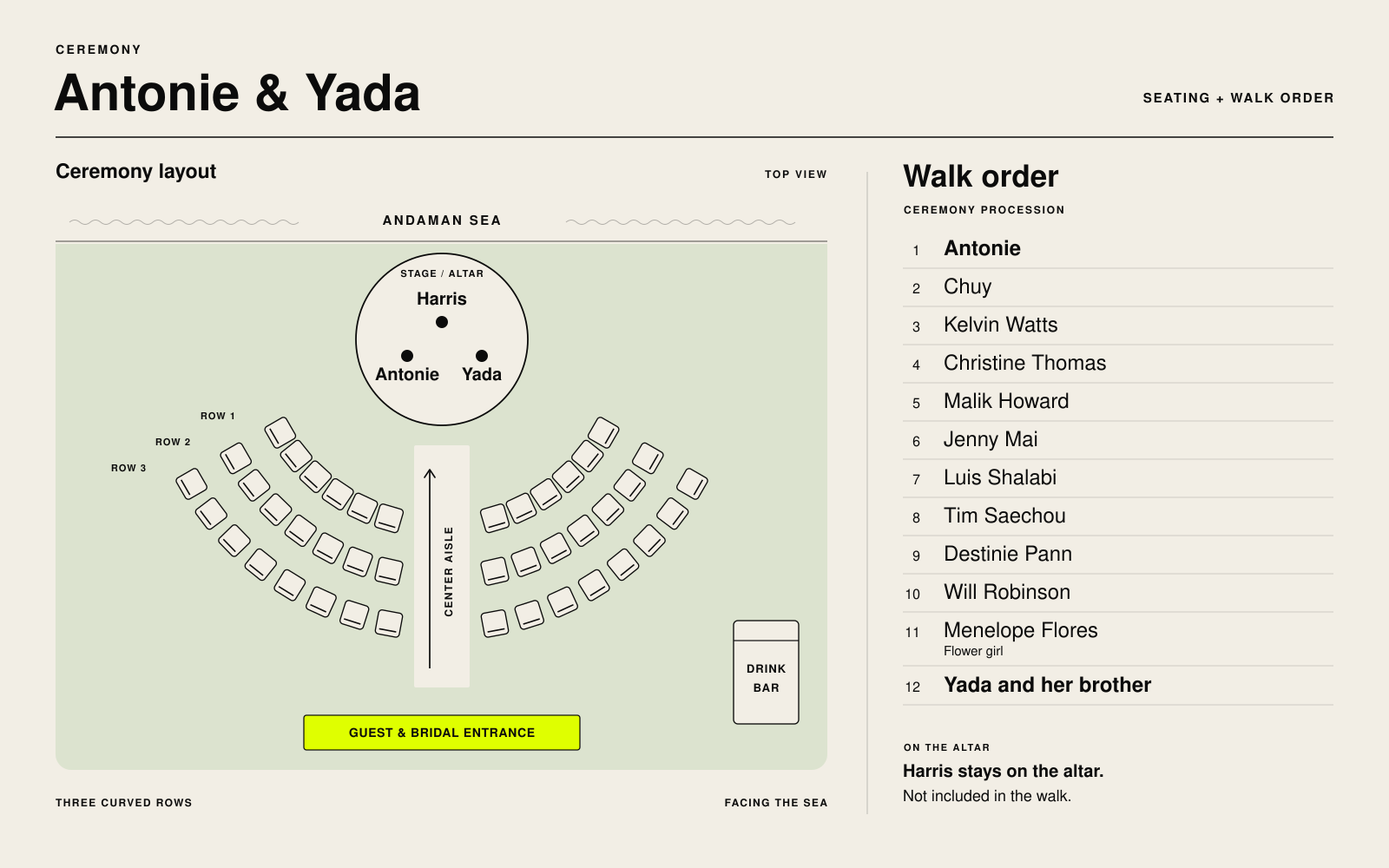
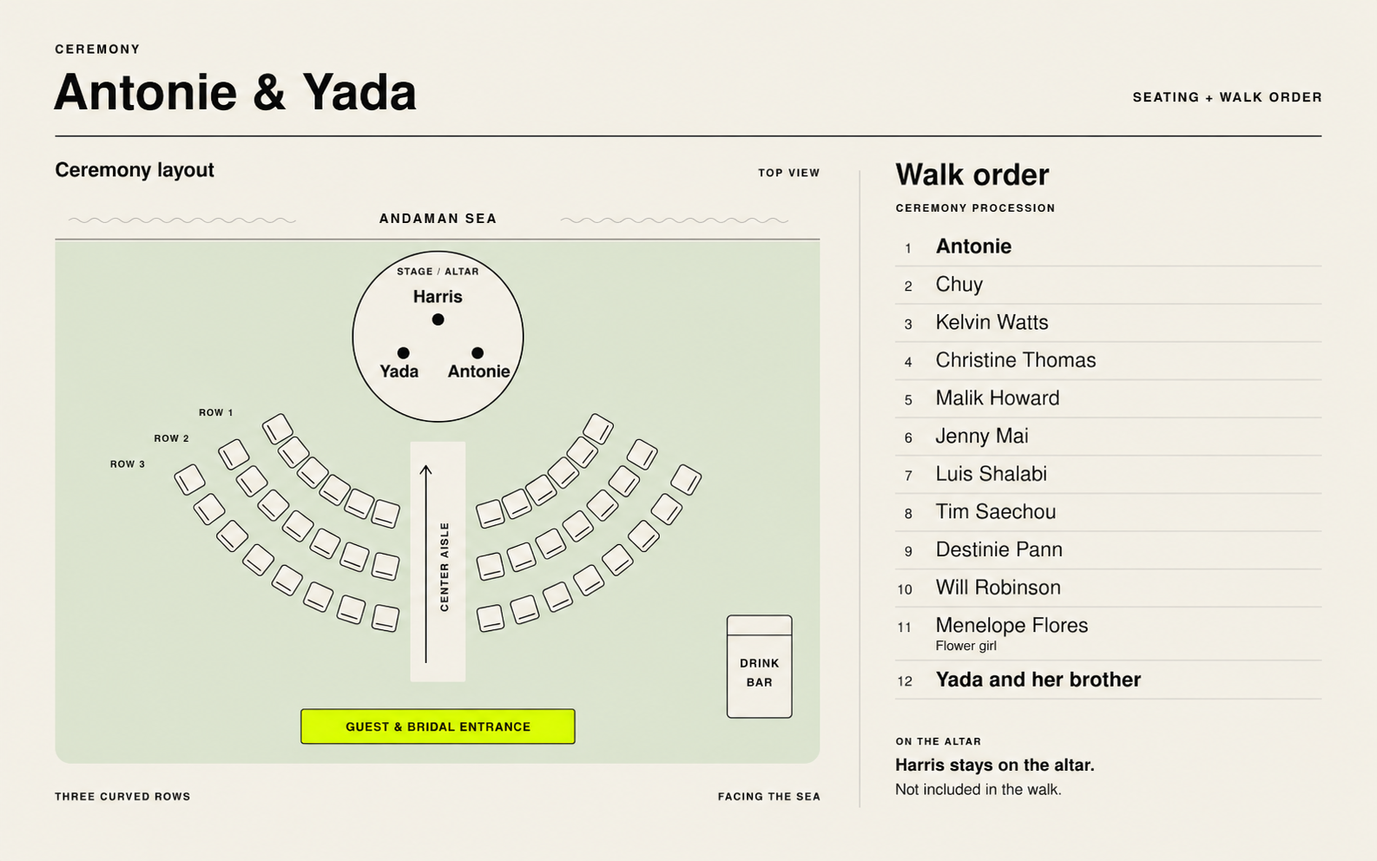
Update rehearsal instructions, altar map, and Will's duties

diff --git a/index.html b/index.html
@@ -191,7 +191,7 @@ body[data-va-groomsmen="true"] .cursor-glow{display:none}body[data-va-groomsmen=
     <div class="gm-section-heading"><h2 id="gm-plan-title">TWO DAYS.<br/>BE THERE.</h2><p>The key times, the places, and what we need from you. Keep this handy on Thursday and Friday.</p></div>
     <div class="gm-days">
       <article class="gm-day"><div class="gm-day-heading"><span class="gm-day-number" aria-hidden="true">19</span><div><h3>Thursday</h3><p class="gm-label">November 19, 2026</p></div></div>
-        <ol class="gm-timeline"><li><div class="gm-time"><time datetime="2026-11-19T16:30:00+07:00">4:30pm</time></div><div><h4>Rehearsal</h4><p>Cape Sienna. Come comfortable for the walkthrough.</p><a class="gm-link" href="https://www.google.com/maps/search/?api=1&amp;query=Cape+Sienna+Phuket+18%2F40+Moo+6+Nakalay+Road+Kamala" target="_blank" rel="noopener noreferrer">Cape Sienna map<span aria-hidden="true">↗</span></a></div></li><li><div class="gm-time"><time datetime="2026-11-19T18:00:00+07:00">6:00pm</time></div><div><h4>Welcome party</h4><p>Blue Sea Restaurant by Namaka Resort Kamala, across the street from Cape Sienna.</p><p>Rehearsal dinner dress code: <strong>ELEVATED CASUAL</strong>.</p><a class="gm-link" href="https://www.google.com/maps/search/?api=1&amp;query=Blue+Sea+Restaurant+by+Namaka+Resort+Kamala+Phuket" target="_blank" rel="noopener noreferrer">Blue Sea map<span aria-hidden="true">↗</span></a></div></li></ol>
+        <ol class="gm-timeline"><li><div class="gm-time"><time datetime="2026-11-19T16:30:00+07:00">4:30pm</time></div><div><h4>Rehearsal</h4><p>Cape Sienna. Arrive dressed and ready for the rehearsal and welcome party.</p><a class="gm-link" href="https://www.google.com/maps/search/?api=1&amp;query=Cape+Sienna+Phuket+18%2F40+Moo+6+Nakalay+Road+Kamala" target="_blank" rel="noopener noreferrer">Cape Sienna map<span aria-hidden="true">↗</span></a></div></li><li><div class="gm-time"><time datetime="2026-11-19T18:00:00+07:00">6:00pm</time></div><div><h4>Welcome party</h4><p>Blue Sea Restaurant by Namaka Resort Kamala, across the street from Cape Sienna.</p><p>Rehearsal dinner dress code: <strong>ELEVATED CASUAL</strong>.</p><a class="gm-link" href="https://www.google.com/maps/search/?api=1&amp;query=Blue+Sea+Restaurant+by+Namaka+Resort+Kamala+Phuket" target="_blank" rel="noopener noreferrer">Blue Sea map<span aria-hidden="true">↗</span></a></div></li></ol>
       </article>
       <article class="gm-day"><div class="gm-day-heading"><span class="gm-day-number" aria-hidden="true">20</span><div><h3>Friday</h3><p class="gm-label">November 20, 2026</p></div></div>
         <ol class="gm-timeline"><li><div class="gm-time">Before<small>the venue</small></div><div><h4>Get ready at the Airbnb</h4><p>Photos at the Airbnb and at the venue. Malik keeps the seven together until the photographer is done.</p><p>Tim owns shuttles, rides and pickup times. He gets everyone to Cape Sienna by 4:00pm.</p></div></li><li class="gm-arrival"><div class="gm-time"><time datetime="2026-11-20T16:00:00+07:00">4:00pm</time><small>Be there by</small></div><div><h4>Everyone at Cape Sienna</h4><p>Wait in the assigned room until called.</p></div></li><li><div class="gm-time"><time datetime="2026-11-20T16:30:00+07:00">4:30pm</time></div><div><h4>Guests on the rooftop</h4><p>Vanilla Sky Bar. Chuy helps guests find seats before 4:30pm.</p></div></li><li><div class="gm-time"><time datetime="2026-11-20T17:00:00+07:00">5:00pm</time><small>Sharp</small></div><div><h4>Ceremony starts</h4><p>Cape Sienna Phuket. The wedding celebration runs until 10:00pm.</p></div></li><li><div class="gm-time"><time datetime="2026-11-20T22:00:00+07:00">10:00pm</time><small>Until midnight</small></div><div><h4>After party at Catch</h4><p>Catch Beach Club, Choeng Thale. Kelvin gathers the crew and checks for phones, gifts and personal belongings before everyone heads over.</p><a class="gm-link" href="https://www.google.com/maps/search/?api=1&amp;query=Catch+Beach+Club+Choeng+Thale+Phuket" target="_blank" rel="noopener noreferrer">Catch map<span aria-hidden="true">↗</span></a></div></li></ol>
@@ -201,7 +201,7 @@ body[data-va-groomsmen="true"] .cursor-glow{display:none}body[data-va-groomsmen=
   </section>
   <section class="gm-section" id="gm-crew" aria-labelledby="gm-crew-title"><div class="gm-section-kicker"><span>02 / The seven</span><span>Know what you own</span></div><div class="gm-section-heading"><h2 id="gm-crew-title">YOUR PEOPLE.<br/>YOUR ROLES.</h2><p>Read your part. Know who covers what. Help each other keep the day moving.</p></div><nav class="gm-role-jump" aria-label="Jump to a groomsman"><a href="#gm-will">Will</a><a href="#gm-tim">Tim</a><a href="#gm-kelvin">Kelvin</a><a href="#gm-malik">Malik</a><a href="#gm-chuy">Chuy</a><a href="#gm-luis">Luis</a><a href="#gm-harris">Harris</a></nav><div class="gm-crew"><article class="gm-person " id="gm-will">
     <div class="gm-portrait "><img src="assets/will.webp" alt="Will Robinson" width="800" height="1000" loading="lazy" decoding="async" style="object-position:50% 35%" /></div>
-    <div class="gm-person-copy"><p class="gm-label">01 / Co-best man</p><h3>Will Robinson</h3><p class="gm-focus">Rings. Speech. Antonie's clock.</p><ul><li>Give a speech and hold the rings.</li><li>Keep Antonie on time.</li><li>Cover the floor while Tim speaks.</li></ul></div>
+    <div class="gm-person-copy"><p class="gm-label">01 / Co-best man</p><h3>Will Robinson</h3><p class="gm-focus">Rings. Speech. Antonie's clock.</p><ul><li>Give a speech and hold the rings.</li><li>Keep Antonie on time.</li></ul></div>
   </article><article class="gm-person " id="gm-tim">
     <div class="gm-portrait "><img src="assets/tim.webp" alt="Tim Saechou" width="800" height="1000" loading="lazy" decoding="async" style="object-position:50% 32%" /></div>
     <div class="gm-person-copy"><p class="gm-label">02 / Co-best man</p><h3>Tim Saechou</h3><p class="gm-focus">Own the shuttles and rides.</p><ul><li>Own the shuttles, rides and pickup times.</li><li>Get everyone to Cape Sienna by 4:00pm.</li><li>Give a speech.</li></ul></div>
@@ -227,7 +227,7 @@ body[data-va-groomsmen="true"] .cursor-glow{display:none}body[data-va-groomsmen=
     <article class="gm-blue"><div><p class="gm-label">Thursday / 6:00pm / ELEVATED CASUAL</p><h3>Blue Sea Restaurant</h3><p>By Namaka Resort Kamala.</p></div><div><p>Across the street from Cape Sienna. This is the spot for the welcome party.</p><a class="gm-link" href="https://www.google.com/maps/search/?api=1&amp;query=Blue+Sea+Restaurant+by+Namaka+Resort+Kamala+Phuket" target="_blank" rel="noopener noreferrer">Open Blue Sea map<span aria-hidden="true">↗</span></a></div></article>
   </div></section>
   <section class="gm-section" id="gm-stay" aria-labelledby="gm-stay-title"><div class="gm-stay"><div class="gm-stay-copy"><p class="gm-label">04 / Where we stay</p><h2 id="gm-stay-title" class="gm-stay-title">HOME BASE.</h2><p class="gm-stay-dates"><strong>November 16 to 24, 2026.</strong></p><p class="gm-address">8 Rim Tarn Village<br/>Choeng Thale, Phuket 83110<br/>Thailand</p><p>We're staying here all week.</p><a class="gm-link" href="https://www.google.com/maps/search/?api=1&amp;query=8+Rim+Tarn+Village+Choeng+Thale+Phuket+83110" target="_blank" rel="noopener noreferrer">Open Airbnb map<span aria-hidden="true">↗</span></a></div><div><article class="gm-travel-card"><p class="gm-label">Getting around</p><h3>Shuttles + rides.</h3><p>Tim owns the shuttles and rides. He gets everyone to Cape Sienna by 4:00pm. Keep an eye out for his pickup times.</p></article></div></div></section>
-  <section class="gm-section" id="gm-walk" aria-labelledby="gm-walk-title"><div class="gm-section-kicker"><span>05 / The procession</span><span>Know your cue</span></div><div class="gm-section-heading"><h2 id="gm-walk-title">THE WALK<br/>ORDER.</h2><p>This is the full procession, including the people walking who are not groomsmen.</p></div><figure class="gm-ceremony-map"><a href="assets/ceremony-map.png" target="_blank" rel="noopener noreferrer" aria-label="Open the full-size ceremony map"><img src="assets/ceremony-map.png" alt="Ceremony map: altar facing the Andaman Sea, three curved rows of seats, a center aisle, guest and bridal entrance, drink bar, and the walk order. Harris stays on the altar." width="1600" height="1000" loading="lazy" decoding="async"/></a><figcaption>Ceremony layout + walk order. Tap the map to open it full size.</figcaption></figure><div class="gm-procession"><aside class="gm-altar-note"><p class="gm-label">Already at the altar</p><h3>Harris stays put.</h3><p>He officiates with Antonie and Yada at the altar. He is not in the walk.</p></aside><div><ol class="gm-walk"><li><span class="gm-walk-number" aria-hidden="true">01</span><span class="gm-walk-name">Antonie</span></li><li><span class="gm-walk-number" aria-hidden="true">02</span><span class="gm-walk-name">Chuy</span></li><li><span class="gm-walk-number" aria-hidden="true">03</span><span class="gm-walk-name">Kelvin Watts</span></li><li><span class="gm-walk-number" aria-hidden="true">04</span><span class="gm-walk-name">Christine Thomas</span></li><li><span class="gm-walk-number" aria-hidden="true">05</span><span class="gm-walk-name">Malik Howard</span></li><li><span class="gm-walk-number" aria-hidden="true">06</span><span class="gm-walk-name">Jenny Mai</span></li><li><span class="gm-walk-number" aria-hidden="true">07</span><span class="gm-walk-name">Luis Shalabi</span></li><li><span class="gm-walk-number" aria-hidden="true">08</span><span class="gm-walk-name">Tim Saechou</span></li><li><span class="gm-walk-number" aria-hidden="true">09</span><span class="gm-walk-name">Destinie Pann</span></li><li><span class="gm-walk-number" aria-hidden="true">10</span><span class="gm-walk-name">Will Robinson</span></li><li><span class="gm-walk-number" aria-hidden="true">11</span><span class="gm-walk-name">Menelope Flores<small>Flower girl</small></span></li><li><span class="gm-walk-number" aria-hidden="true">12</span><span class="gm-walk-name">Yada and her brother</span></li></ol><p class="gm-procession-notes">Christine Thomas, Jenny Mai, Destinie Pann, Menelope Flores and Yada's brother are in the walk. They are not groomsmen.</p></div></div></section>
+  <section class="gm-section" id="gm-walk" aria-labelledby="gm-walk-title"><div class="gm-section-kicker"><span>05 / The procession</span><span>Know your cue</span></div><div class="gm-section-heading"><h2 id="gm-walk-title">THE WALK<br/>ORDER.</h2><p>This is the full procession, including the people walking who are not groomsmen.</p></div><figure class="gm-ceremony-map"><a href="assets/ceremony-map.png" target="_blank" rel="noopener noreferrer" aria-label="Open the full-size ceremony map"><img src="assets/ceremony-map.png" alt="Ceremony map: altar facing the Andaman Sea with Yada on the left, Antonie on the right and Harris at the top. Three curved rows of seats, a center aisle, guest and bridal entrance, drink bar, and the walk order." width="1586" height="992" loading="lazy" decoding="async"/></a><figcaption>Ceremony layout + walk order. Tap the map to open it full size.</figcaption></figure><div class="gm-procession"><aside class="gm-altar-note"><p class="gm-label">Already at the altar</p><h3>Harris stays put.</h3><p>He officiates with Antonie and Yada at the altar. He is not in the walk.</p></aside><div><ol class="gm-walk"><li><span class="gm-walk-number" aria-hidden="true">01</span><span class="gm-walk-name">Antonie</span></li><li><span class="gm-walk-number" aria-hidden="true">02</span><span class="gm-walk-name">Chuy</span></li><li><span class="gm-walk-number" aria-hidden="true">03</span><span class="gm-walk-name">Kelvin Watts</span></li><li><span class="gm-walk-number" aria-hidden="true">04</span><span class="gm-walk-name">Christine Thomas</span></li><li><span class="gm-walk-number" aria-hidden="true">05</span><span class="gm-walk-name">Malik Howard</span></li><li><span class="gm-walk-number" aria-hidden="true">06</span><span class="gm-walk-name">Jenny Mai</span></li><li><span class="gm-walk-number" aria-hidden="true">07</span><span class="gm-walk-name">Luis Shalabi</span></li><li><span class="gm-walk-number" aria-hidden="true">08</span><span class="gm-walk-name">Tim Saechou</span></li><li><span class="gm-walk-number" aria-hidden="true">09</span><span class="gm-walk-name">Destinie Pann</span></li><li><span class="gm-walk-number" aria-hidden="true">10</span><span class="gm-walk-name">Will Robinson</span></li><li><span class="gm-walk-number" aria-hidden="true">11</span><span class="gm-walk-name">Menelope Flores<small>Flower girl</small></span></li><li><span class="gm-walk-number" aria-hidden="true">12</span><span class="gm-walk-name">Yada and her brother</span></li></ol><p class="gm-procession-notes">Christine Thomas, Jenny Mai, Destinie Pann, Menelope Flores and Yada's brother are in the walk. They are not groomsmen.</p></div></div></section>
   <section class="gm-final"><div><p class="gm-label">For the weekend</p><h2>Bookmark it.<br/>Show up for them.</h2></div><a class="gm-button" href="https://www.zola.com/wedding/antonieandmoniqueyada" target="_blank" rel="noopener noreferrer">Open the guest site<span aria-hidden="true">↗</span></a></section>
 </main></div><footer class="gm-footer"><a href="https://vessel-archive.com/" aria-label="Vessel Archive home">VESSEL ARCHIVE</a><p class="gm-label">Antonie + Yada / November 20, 2026 / Phuket, Thailand</p><a href="#gm-top">Back to top ↑</a></footer><script>
 (() => {

diff --git a/Workshop/VesselArchiveSite.tsx b/Workshop/VesselArchiveSite.tsx
@@ -474,7 +474,7 @@ const GROOMSMEN_LINKS = {
   airbnb: "https://www.google.com/maps/search/?api=1&query=8+Rim+Tarn+Village+Choeng+Thale+Phuket+83110",
 };
 const GROOMSMEN_CREW = [
-  { id: "will", name: "Will Robinson", initials: "WR", role: "Co-best man", focus: "Rings. Speech. Antonie's clock.", photo: GROOMSMEN_ASSETS.will, position: "50% 35%", duties: ["Give a speech and hold the rings.", "Keep Antonie on time.", "Cover the floor while Tim speaks."] },
+  { id: "will", name: "Will Robinson", initials: "WR", role: "Co-best man", focus: "Rings. Speech. Antonie's clock.", photo: GROOMSMEN_ASSETS.will, position: "50% 35%", duties: ["Give a speech and hold the rings.", "Keep Antonie on time."] },
   { id: "tim", name: "Tim Saechou", initials: "TS", role: "Co-best man", focus: "Own the shuttles and rides.", photo: GROOMSMEN_ASSETS.tim, position: "50% 32%", duties: ["Own the shuttles, rides and pickup times.", "Get everyone to Cape Sienna by 4:00pm.", "Give a speech."] },
   { id: "kelvin", name: "Kelvin Watts", initials: "KW", role: "After party + belongings", focus: "Keep the crew moving.", photo: GROOMSMEN_ASSETS.kelvin, position: "50% 35%", duties: ["At 10:00pm, gather the crew and move everyone to Catch.", "Collect phones, gifts and personal belongings. Check that nothing is left behind."] },
   { id: "malik", name: "Malik Howard", initials: "MH", role: "Photos", focus: "Keep the whole crew in frame.", photo: GROOMSMEN_ASSETS.malik, position: "50% 35%", duties: ["Own photos at the Airbnb and at the venue.", "Keep the seven together until the photographer is done.", "Tell funny jokes."] },
@@ -545,7 +545,7 @@ const GROOMSMEN_PAGE = `<style>${GROOMSMEN_CSS}</style>
     <div class="gm-section-heading"><h2 id="gm-plan-title">TWO DAYS.<br/>BE THERE.</h2><p>The key times, the places, and what we need from you. Keep this handy on Thursday and Friday.</p></div>
     <div class="gm-days">
       <article class="gm-day"><div class="gm-day-heading"><span class="gm-day-number" aria-hidden="true">19</span><div><h3>Thursday</h3><p class="gm-label">November 19, 2026</p></div></div>
-        <ol class="gm-timeline"><li><div class="gm-time"><time datetime="2026-11-19T16:30:00+07:00">4:30pm</time></div><div><h4>Rehearsal</h4><p>Cape Sienna. Come comfortable for the walkthrough.</p>${gmLink(GROOMSMEN_LINKS.cape,"Cape Sienna map")}</div></li><li><div class="gm-time"><time datetime="2026-11-19T18:00:00+07:00">6:00pm</time></div><div><h4>Welcome party</h4><p>Blue Sea Restaurant by Namaka Resort Kamala, across the street from Cape Sienna.</p><p>Rehearsal dinner dress code: <strong>ELEVATED CASUAL</strong>.</p>${gmLink(GROOMSMEN_LINKS.blue,"Blue Sea map")}</div></li></ol>
+        <ol class="gm-timeline"><li><div class="gm-time"><time datetime="2026-11-19T16:30:00+07:00">4:30pm</time></div><div><h4>Rehearsal</h4><p>Cape Sienna. Arrive dressed and ready for the rehearsal and welcome party.</p>${gmLink(GROOMSMEN_LINKS.cape,"Cape Sienna map")}</div></li><li><div class="gm-time"><time datetime="2026-11-19T18:00:00+07:00">6:00pm</time></div><div><h4>Welcome party</h4><p>Blue Sea Restaurant by Namaka Resort Kamala, across the street from Cape Sienna.</p><p>Rehearsal dinner dress code: <strong>ELEVATED CASUAL</strong>.</p>${gmLink(GROOMSMEN_LINKS.blue,"Blue Sea map")}</div></li></ol>
       </article>
       <article class="gm-day"><div class="gm-day-heading"><span class="gm-day-number" aria-hidden="true">20</span><div><h3>Friday</h3><p class="gm-label">November 20, 2026</p></div></div>
         <ol class="gm-timeline"><li><div class="gm-time">Before<small>the venue</small></div><div><h4>Get ready at the Airbnb</h4><p>Photos at the Airbnb and at the venue. Malik keeps the seven together until the photographer is done.</p><p>Tim owns shuttles, rides and pickup times. He gets everyone to Cape Sienna by 4:00pm.</p></div></li><li class="gm-arrival"><div class="gm-time"><time datetime="2026-11-20T16:00:00+07:00">4:00pm</time><small>Be there by</small></div><div><h4>Everyone at Cape Sienna</h4><p>Wait in the assigned room until called.</p></div></li><li><div class="gm-time"><time datetime="2026-11-20T16:30:00+07:00">4:30pm</time></div><div><h4>Guests on the rooftop</h4><p>Vanilla Sky Bar. Chuy helps guests find seats before 4:30pm.</p></div></li><li><div class="gm-time"><time datetime="2026-11-20T17:00:00+07:00">5:00pm</time><small>Sharp</small></div><div><h4>Ceremony starts</h4><p>Cape Sienna Phuket. The wedding celebration runs until 10:00pm.</p></div></li><li><div class="gm-time"><time datetime="2026-11-20T22:00:00+07:00">10:00pm</time><small>Until midnight</small></div><div><h4>After party at Catch</h4><p>Catch Beach Club, Choeng Thale. Kelvin gathers the crew and checks for phones, gifts and personal belongings before everyone heads over.</p>${gmLink(GROOMSMEN_LINKS.catch,"Catch map")}</div></li></ol>
@@ -560,7 +560,7 @@ const GROOMSMEN_PAGE = `<style>${GROOMSMEN_CSS}</style>
     <article class="gm-blue"><div><p class="gm-label">Thursday / 6:00pm / ELEVATED CASUAL</p><h3>Blue Sea Restaurant</h3><p>By Namaka Resort Kamala.</p></div><div><p>Across the street from Cape Sienna. This is the spot for the welcome party.</p>${gmLink(GROOMSMEN_LINKS.blue,"Open Blue Sea map")}</div></article>
   </div></section>
   <section class="gm-section" id="gm-stay" aria-labelledby="gm-stay-title"><div class="gm-stay"><div class="gm-stay-copy"><p class="gm-label">04 / Where we stay</p><h2 id="gm-stay-title" class="gm-stay-title">HOME BASE.</h2><p class="gm-stay-dates"><strong>November 16 to 24, 2026.</strong></p><p class="gm-address">8 Rim Tarn Village<br/>Choeng Thale, Phuket 83110<br/>Thailand</p><p>We're staying here all week.</p>${gmLink(GROOMSMEN_LINKS.airbnb,"Open Airbnb map")}</div><div><article class="gm-travel-card"><p class="gm-label">Getting around</p><h3>Shuttles + rides.</h3><p>Tim owns the shuttles and rides. He gets everyone to Cape Sienna by 4:00pm. Keep an eye out for his pickup times.</p></article></div></div></section>
-  <section class="gm-section" id="gm-walk" aria-labelledby="gm-walk-title"><div class="gm-section-kicker"><span>05 / The procession</span><span>Know your cue</span></div><div class="gm-section-heading"><h2 id="gm-walk-title">THE WALK<br/>ORDER.</h2><p>This is the full procession, including the people walking who are not groomsmen.</p></div><figure class="gm-ceremony-map"><a href="${GROOMSMEN_ASSETS.ceremonyMap}" target="_blank" rel="noopener noreferrer" aria-label="Open the full-size ceremony map"><img src="${GROOMSMEN_ASSETS.ceremonyMap}" alt="Ceremony map: altar facing the Andaman Sea, three curved rows of seats, a center aisle, guest and bridal entrance, drink bar, and the walk order. Harris stays on the altar." width="1600" height="1000" loading="lazy" decoding="async"/></a><figcaption>Ceremony layout + walk order. Tap the map to open it full size.</figcaption></figure><div class="gm-procession"><aside class="gm-altar-note"><p class="gm-label">Already at the altar</p><h3>Harris stays put.</h3><p>He officiates with Antonie and Yada at the altar. He is not in the walk.</p></aside><div><ol class="gm-walk">${GROOMSMEN_WALK.map(([name,note],i)=>`<li><span class="gm-walk-number" aria-hidden="true">${String(i+1).padStart(2,"0")}</span><span class="gm-walk-name">${name}${note?`<small>${note}</small>`:""}</span></li>`).join("")}</ol><p class="gm-procession-notes">Christine Thomas, Jenny Mai, Destinie Pann, Menelope Flores and Yada's brother are in the walk. They are not groomsmen.</p></div></div></section>
+  <section class="gm-section" id="gm-walk" aria-labelledby="gm-walk-title"><div class="gm-section-kicker"><span>05 / The procession</span><span>Know your cue</span></div><div class="gm-section-heading"><h2 id="gm-walk-title">THE WALK<br/>ORDER.</h2><p>This is the full procession, including the people walking who are not groomsmen.</p></div><figure class="gm-ceremony-map"><a href="${GROOMSMEN_ASSETS.ceremonyMap}" target="_blank" rel="noopener noreferrer" aria-label="Open the full-size ceremony map"><img src="${GROOMSMEN_ASSETS.ceremonyMap}" alt="Ceremony map: altar facing the Andaman Sea with Yada on the left, Antonie on the right and Harris at the top. Three curved rows of seats, a center aisle, guest and bridal entrance, drink bar, and the walk order." width="1586" height="992" loading="lazy" decoding="async"/></a><figcaption>Ceremony layout + walk order. Tap the map to open it full size.</figcaption></figure><div class="gm-procession"><aside class="gm-altar-note"><p class="gm-label">Already at the altar</p><h3>Harris stays put.</h3><p>He officiates with Antonie and Yada at the altar. He is not in the walk.</p></aside><div><ol class="gm-walk">${GROOMSMEN_WALK.map(([name,note],i)=>`<li><span class="gm-walk-number" aria-hidden="true">${String(i+1).padStart(2,"0")}</span><span class="gm-walk-name">${name}${note?`<small>${note}</small>`:""}</span></li>`).join("")}</ol><p class="gm-procession-notes">Christine Thomas, Jenny Mai, Destinie Pann, Menelope Flores and Yada's brother are in the walk. They are not groomsmen.</p></div></div></section>
   <section class="gm-final"><div><p class="gm-label">For the weekend</p><h2>Bookmark it.<br/>Show up for them.</h2></div>${gmLink(GROOMSMEN_LINKS.guest,"Open the guest site","gm-button")}</section>
 </main>`;
 const GROOMSMEN_FOOTER = `<footer class="gm-footer"><a href="/" aria-label="Vessel Archive home">VESSEL ARCHIVE</a><p class="gm-label">Antonie + Yada / November 20, 2026 / Phuket, Thailand</p><a href="#gm-top">Back to top ↑</a></footer>`;

diff --git a/merge/groomsmen.additions.ts b/merge/groomsmen.additions.ts
@@ -33,7 +33,7 @@ const GROOMSMEN_LINKS = {
   airbnb: "https://www.google.com/maps/search/?api=1&query=8+Rim+Tarn+Village+Choeng+Thale+Phuket+83110",
 };
 const GROOMSMEN_CREW = [
-  { id: "will", name: "Will Robinson", initials: "WR", role: "Co-best man", focus: "Rings. Speech. Antonie's clock.", photo: GROOMSMEN_ASSETS.will, position: "50% 35%", duties: ["Give a speech and hold the rings.", "Keep Antonie on time.", "Cover the floor while Tim speaks."] },
+  { id: "will", name: "Will Robinson", initials: "WR", role: "Co-best man", focus: "Rings. Speech. Antonie's clock.", photo: GROOMSMEN_ASSETS.will, position: "50% 35%", duties: ["Give a speech and hold the rings.", "Keep Antonie on time."] },
   { id: "tim", name: "Tim Saechou", initials: "TS", role: "Co-best man", focus: "Own the shuttles and rides.", photo: GROOMSMEN_ASSETS.tim, position: "50% 32%", duties: ["Own the shuttles, rides and pickup times.", "Get everyone to Cape Sienna by 4:00pm.", "Give a speech."] },
   { id: "kelvin", name: "Kelvin Watts", initials: "KW", role: "After party + belongings", focus: "Keep the crew moving.", photo: GROOMSMEN_ASSETS.kelvin, position: "50% 35%", duties: ["At 10:00pm, gather the crew and move everyone to Catch.", "Collect phones, gifts and personal belongings. Check that nothing is left behind."] },
   { id: "malik", name: "Malik Howard", initials: "MH", role: "Photos", focus: "Keep the whole crew in frame.", photo: GROOMSMEN_ASSETS.malik, position: "50% 35%", duties: ["Own photos at the Airbnb and at the venue.", "Keep the seven together until the photographer is done.", "Tell funny jokes."] },
@@ -104,7 +104,7 @@ const GROOMSMEN_PAGE = `<style>${GROOMSMEN_CSS}</style>
     <div class="gm-section-heading"><h2 id="gm-plan-title">TWO DAYS.<br/>BE THERE.</h2><p>The key times, the places, and what we need from you. Keep this handy on Thursday and Friday.</p></div>
     <div class="gm-days">
       <article class="gm-day"><div class="gm-day-heading"><span class="gm-day-number" aria-hidden="true">19</span><div><h3>Thursday</h3><p class="gm-label">November 19, 2026</p></div></div>
-        <ol class="gm-timeline"><li><div class="gm-time"><time datetime="2026-11-19T16:30:00+07:00">4:30pm</time></div><div><h4>Rehearsal</h4><p>Cape Sienna. Come comfortable for the walkthrough.</p>${gmLink(GROOMSMEN_LINKS.cape,"Cape Sienna map")}</div></li><li><div class="gm-time"><time datetime="2026-11-19T18:00:00+07:00">6:00pm</time></div><div><h4>Welcome party</h4><p>Blue Sea Restaurant by Namaka Resort Kamala, across the street from Cape Sienna.</p><p>Rehearsal dinner dress code: <strong>ELEVATED CASUAL</strong>.</p>${gmLink(GROOMSMEN_LINKS.blue,"Blue Sea map")}</div></li></ol>
+        <ol class="gm-timeline"><li><div class="gm-time"><time datetime="2026-11-19T16:30:00+07:00">4:30pm</time></div><div><h4>Rehearsal</h4><p>Cape Sienna. Arrive dressed and ready for the rehearsal and welcome party.</p>${gmLink(GROOMSMEN_LINKS.cape,"Cape Sienna map")}</div></li><li><div class="gm-time"><time datetime="2026-11-19T18:00:00+07:00">6:00pm</time></div><div><h4>Welcome party</h4><p>Blue Sea Restaurant by Namaka Resort Kamala, across the street from Cape Sienna.</p><p>Rehearsal dinner dress code: <strong>ELEVATED CASUAL</strong>.</p>${gmLink(GROOMSMEN_LINKS.blue,"Blue Sea map")}</div></li></ol>
       </article>
       <article class="gm-day"><div class="gm-day-heading"><span class="gm-day-number" aria-hidden="true">20</span><div><h3>Friday</h3><p class="gm-label">November 20, 2026</p></div></div>
         <ol class="gm-timeline"><li><div class="gm-time">Before<small>the venue</small></div><div><h4>Get ready at the Airbnb</h4><p>Photos at the Airbnb and at the venue. Malik keeps the seven together until the photographer is done.</p><p>Tim owns shuttles, rides and pickup times. He gets everyone to Cape Sienna by 4:00pm.</p></div></li><li class="gm-arrival"><div class="gm-time"><time datetime="2026-11-20T16:00:00+07:00">4:00pm</time><small>Be there by</small></div><div><h4>Everyone at Cape Sienna</h4><p>Wait in the assigned room until called.</p></div></li><li><div class="gm-time"><time datetime="2026-11-20T16:30:00+07:00">4:30pm</time></div><div><h4>Guests on the rooftop</h4><p>Vanilla Sky Bar. Chuy helps guests find seats before 4:30pm.</p></div></li><li><div class="gm-time"><time datetime="2026-11-20T17:00:00+07:00">5:00pm</time><small>Sharp</small></div><div><h4>Ceremony starts</h4><p>Cape Sienna Phuket. The wedding celebration runs until 10:00pm.</p></div></li><li><div class="gm-time"><time datetime="2026-11-20T22:00:00+07:00">10:00pm</time><small>Until midnight</small></div><div><h4>After party at Catch</h4><p>Catch Beach Club, Choeng Thale. Kelvin gathers the crew and checks for phones, gifts and personal belongings before everyone heads over.</p>${gmLink(GROOMSMEN_LINKS.catch,"Catch map")}</div></li></ol>
@@ -119,7 +119,7 @@ const GROOMSMEN_PAGE = `<style>${GROOMSMEN_CSS}</style>
     <article class="gm-blue"><div><p class="gm-label">Thursday / 6:00pm / ELEVATED CASUAL</p><h3>Blue Sea Restaurant</h3><p>By Namaka Resort Kamala.</p></div><div><p>Across the street from Cape Sienna. This is the spot for the welcome party.</p>${gmLink(GROOMSMEN_LINKS.blue,"Open Blue Sea map")}</div></article>
   </div></section>
   <section class="gm-section" id="gm-stay" aria-labelledby="gm-stay-title"><div class="gm-stay"><div class="gm-stay-copy"><p class="gm-label">04 / Where we stay</p><h2 id="gm-stay-title" class="gm-stay-title">HOME BASE.</h2><p class="gm-stay-dates"><strong>November 16 to 24, 2026.</strong></p><p class="gm-address">8 Rim Tarn Village<br/>Choeng Thale, Phuket 83110<br/>Thailand</p><p>We're staying here all week.</p>${gmLink(GROOMSMEN_LINKS.airbnb,"Open Airbnb map")}</div><div><article class="gm-travel-card"><p class="gm-label">Getting around</p><h3>Shuttles + rides.</h3><p>Tim owns the shuttles and rides. He gets everyone to Cape Sienna by 4:00pm. Keep an eye out for his pickup times.</p></article></div></div></section>
-  <section class="gm-section" id="gm-walk" aria-labelledby="gm-walk-title"><div class="gm-section-kicker"><span>05 / The procession</span><span>Know your cue</span></div><div class="gm-section-heading"><h2 id="gm-walk-title">THE WALK<br/>ORDER.</h2><p>This is the full procession, including the people walking who are not groomsmen.</p></div><figure class="gm-ceremony-map"><a href="${GROOMSMEN_ASSETS.ceremonyMap}" target="_blank" rel="noopener noreferrer" aria-label="Open the full-size ceremony map"><img src="${GROOMSMEN_ASSETS.ceremonyMap}" alt="Ceremony map: altar facing the Andaman Sea, three curved rows of seats, a center aisle, guest and bridal entrance, drink bar, and the walk order. Harris stays on the altar." width="1600" height="1000" loading="lazy" decoding="async"/></a><figcaption>Ceremony layout + walk order. Tap the map to open it full size.</figcaption></figure><div class="gm-procession"><aside class="gm-altar-note"><p class="gm-label">Already at the altar</p><h3>Harris stays put.</h3><p>He officiates with Antonie and Yada at the altar. He is not in the walk.</p></aside><div><ol class="gm-walk">${GROOMSMEN_WALK.map(([name,note],i)=>`<li><span class="gm-walk-number" aria-hidden="true">${String(i+1).padStart(2,"0")}</span><span class="gm-walk-name">${name}${note?`<small>${note}</small>`:""}</span></li>`).join("")}</ol><p class="gm-procession-notes">Christine Thomas, Jenny Mai, Destinie Pann, Menelope Flores and Yada's brother are in the walk. They are not groomsmen.</p></div></div></section>
+  <section class="gm-section" id="gm-walk" aria-labelledby="gm-walk-title"><div class="gm-section-kicker"><span>05 / The procession</span><span>Know your cue</span></div><div class="gm-section-heading"><h2 id="gm-walk-title">THE WALK<br/>ORDER.</h2><p>This is the full procession, including the people walking who are not groomsmen.</p></div><figure class="gm-ceremony-map"><a href="${GROOMSMEN_ASSETS.ceremonyMap}" target="_blank" rel="noopener noreferrer" aria-label="Open the full-size ceremony map"><img src="${GROOMSMEN_ASSETS.ceremonyMap}" alt="Ceremony map: altar facing the Andaman Sea with Yada on the left, Antonie on the right and Harris at the top. Three curved rows of seats, a center aisle, guest and bridal entrance, drink bar, and the walk order." width="1586" height="992" loading="lazy" decoding="async"/></a><figcaption>Ceremony layout + walk order. Tap the map to open it full size.</figcaption></figure><div class="gm-procession"><aside class="gm-altar-note"><p class="gm-label">Already at the altar</p><h3>Harris stays put.</h3><p>He officiates with Antonie and Yada at the altar. He is not in the walk.</p></aside><div><ol class="gm-walk">${GROOMSMEN_WALK.map(([name,note],i)=>`<li><span class="gm-walk-number" aria-hidden="true">${String(i+1).padStart(2,"0")}</span><span class="gm-walk-name">${name}${note?`<small>${note}</small>`:""}</span></li>`).join("")}</ol><p class="gm-procession-notes">Christine Thomas, Jenny Mai, Destinie Pann, Menelope Flores and Yada's brother are in the walk. They are not groomsmen.</p></div></div></section>
   <section class="gm-final"><div><p class="gm-label">For the weekend</p><h2>Bookmark it.<br/>Show up for them.</h2></div>${gmLink(GROOMSMEN_LINKS.guest,"Open the guest site","gm-button")}</section>
 </main>`;
 const GROOMSMEN_FOOTER = `<footer class="gm-footer"><a href="/" aria-label="Vessel Archive home">VESSEL ARCHIVE</a><p class="gm-label">Antonie + Yada / November 20, 2026 / Phuket, Thailand</p><a href="#gm-top">Back to top ↑</a></footer>`;

diff --git a/FRAMER_INTEGRATION.md b/FRAMER_INTEGRATION.md
@@ -58,7 +58,7 @@ All seven portraits were confirmed by Antonie on October 2, 2026. Additional map
 | `luis` | `assets/luis.webp` | `IMG_5863.jpeg`, seated by the planter |
 | `kelvin` | `assets/kelvin.webp` | `IMG_5866.jpeg`, Christmas sweater |
 
-The supplied ceremony map is included as `assets/ceremony-map.png`. Keep its full 1600 × 1000 frame, with a link to open it full size. The dog photo and Airbnb screenshot are not page assets.
+The supplied ceremony map is included as `assets/ceremony-map.png`. Keep its full frame, with a link to open it full size. The corrected altar map places Yada on the left, Antonie on the right and Harris at the top. The dog photo and Airbnb screenshot are not page assets.
 
 Venue images are used only as location references. Sources:
 
@@ -73,12 +73,12 @@ Blue Sea has its own text location card and exact map link; the two other venue 
 
 - Hero: `SHOW UP READY.` Smaller serif line: `Lock in.` The profanity is a small supporting line only.
 - Seven role cards: Will, Tim, Kelvin, Malik, Chuy, Luis, Harris. Harris is the officiant, not part of the procession.
-- Tim owns shuttles, rides and pickup times, and gets everyone to Cape Sienna by 4:00pm. Do not mention Will in Tim's card. Will holds the rings, gives a speech, keeps Antonie on time and covers the floor while Tim speaks.
+- Tim owns shuttles, rides and pickup times, and gets everyone to Cape Sienna by 4:00pm. Do not mention Will in Tim's card. Will holds the rings, gives a speech and keeps Antonie on time.
 - Luis holds the vows and gives a speech. Malik owns Airbnb/venue photos, keeps the seven together for the photographer and tells funny jokes. Kelvin gathers the crew, phones, gifts and personal belongings for Catch at 10:00pm. Tim handles the Cape Sienna arrival; Kelvin has no seating duty.
 - Chuy helps guests find seats before 4:30pm, brings the vibes and handles drinks. He has no Thursday hosting duty. Keep spelling `Chuy`. Keep all Find My notes and the “then sits in front row” phrase off the page.
 - The full 12-person walk order is a numbered text list without seating-sheet references or alternate-name notes. Harris remains at the altar. Menelope Flores is the flower girl. The five named non-groomsmen remain in that walk list only.
 - Friday: Airbnb prep/photos; Cape Sienna by 4:00pm; wait in the room until called; guests on the rooftop by 4:30pm; ceremony 5:00pm sharp; celebration until 10:00pm; Catch 10:00pm to midnight.
-- Thursday: 4:30pm comfortable rehearsal walkthrough at Cape Sienna; 6:00pm Blue Sea welcome party / rehearsal dinner. Dinner dress code: ELEVATED CASUAL. No changing-clothes instruction or 90-minute change window.
+- Thursday: 4:30pm rehearsal at Cape Sienna; 6:00pm Blue Sea welcome party / rehearsal dinner. Groomsmen arrive dressed and ready for both. Dress code: ELEVATED CASUAL. No changing-clothes instruction or 90-minute change window.
 - Black suit, white button-up, no tie. Omit room-block codes and flight/airport information.
 - Stay all week, November 16 to 24, 2026, at 8 Rim Tarn Village, Choeng Thale, Phuket 83110, Thailand. No host names or Friday-only language in the stay section.
 - Keep the five exact external links in `GROOMSMEN_LINKS`.

diff --git a/README.md b/README.md
@@ -36,7 +36,7 @@ node scripts/build.cjs
 | Luis Shalabi | `assets/luis.webp` | IMG_5863.jpeg, seated by planter |
 | Harris | `assets/harris.webp` | IMG_5865.jpeg, hat |
 
-All seven portraits are assigned. The couple's boat photo is the hero. The supplied ceremony map is in the walk-order section and opens full size when tapped. The Airbnb is home base for the full week, November 16 to 24. The page has no host names, Find My notes, room-block code or flight information. Chuy helps guests find seats before 4:30pm and brings the vibes. Luis holds the vows and gives a speech. Malik owns photos and tells funny jokes. Tim owns shuttles, rides and getting everyone to Cape Sienna by 4:00pm. Kelvin gathers the crew, phones, gifts and belongings for Catch at 10:00pm. Will has no separate rooftop assignment. Thursday rehearsal is a comfortable walkthrough; rehearsal dinner dress code is ELEVATED CASUAL.
+All seven portraits are assigned. The couple's boat photo is the hero. The supplied ceremony map is in the walk-order section and opens full size when tapped. The Airbnb is home base for the full week, November 16 to 24. The page has no host names, Find My notes, room-block code or flight information. Chuy helps guests find seats before 4:30pm and brings the vibes. Luis holds the vows and gives a speech. Malik owns photos and tells funny jokes. Tim owns shuttles, rides and getting everyone to Cape Sienna by 4:00pm. Kelvin gathers the crew, phones, gifts and belongings for Catch at 10:00pm. Will has no separate rooftop assignment. Groomsmen arrive dressed and ready for the Thursday rehearsal and welcome party. Dress code: ELEVATED CASUAL. The altar map shows Yada on the left and Antonie on the right, with Harris at the top.
 
 ## Publication
 
